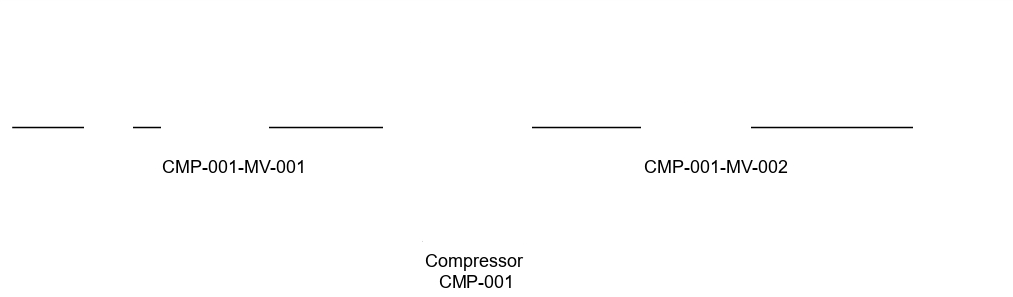
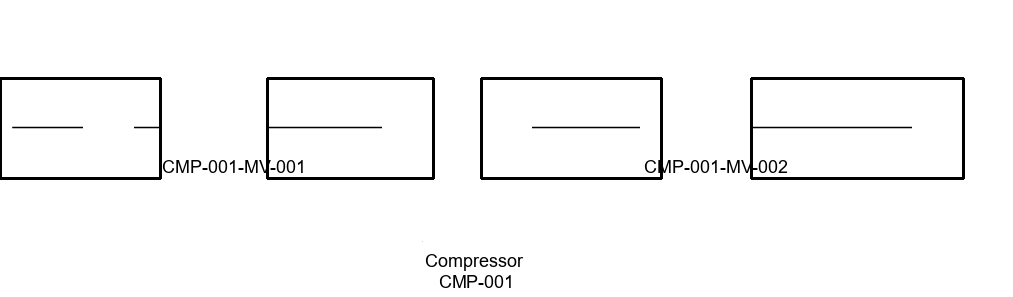
[+] merge Arrow Lignes

diff --git a/hackathon_conform_it/justinLib.py b/hackathon_conform_it/justinLib.py
@@ -92,10 +92,10 @@ def getArrows(image):
     coordonates = merge_intersection(list_coords)
 
     for x, y, w, h in coordonates:
-        # cv.rectangle(image, (x, y), (x + w, y + h), (0, 0, 255), 2)
         list_arrow.append(Model("arrow", ((x, y), w, h), (1, 3)))
 
         image = effacer(image, (x, y), w, h)
+        cv.rectangle(image, (x, y), (x + w, y + h), (255, 0, 0), 2)
     cv.imwrite("./tmp/res.png", image)
 
     return list_arrow
@@ -113,16 +113,13 @@ def getLines(image):
     list_coords = []
     for pt in zip(*loc[::-1]):
         list_coords.append((pt[0], pt[1], w, h))
-        #cv.rectangle(image, pt, (pt[0] + w, pt[1] + h), (0, 0, 255), 2)
-
-    cv.imwrite("./tmp/res_line.png", image)
 
     coordonates = merge_intersection(list_coords)
 
     for x, y, w, h in coordonates:
         cv.rectangle(image, (x, y), (x + w, y + h), (0, 0, 255), 2)
         list_lines.append(Model("ligne", ((x, y), w, h), (1, 3)))
-    cv.imwrite("./tmp/res.png", image)
+    cv.imwrite("./tmp/res_line.png", image)
 
     return list_lines
 
@@ -132,8 +129,8 @@ def is_intersection(box1, box2, strict=True):
     if not strict:
         EPS = 15
 
-    if ((box1[0] + box1[2] + 2 * EPS <= box2[0]) or (box2[0] + box2[2] + 2 * EPS <= box1[0])
-        or (box1[1] + box1[3] + 2 * EPS <= box2[1]) or (box2[1] + box2[3] + 2 * EPS <= box1[1])):
+    if (((box1[0] + box1[2] + 2 * EPS) <= box2[0]) or ((box2[0] + box2[2] + 2 * EPS) <= box1[0])
+        or ((box1[1] + box1[3] + 2 * EPS) <= box2[1]) or ((box2[1] + box2[3] + 2 * EPS) <= box1[1])):
         return False
 
     return True
@@ -174,7 +171,7 @@ def test_and_merge(list_box):
 def merge_arrow_ligne(list_arrow, list_ligne):
     changement = True
     while changement:
-        list_arrow, list_ligne = test_and_merge_arrow_ligne(list_arrow, list_ligne)
+        list_arrow, list_ligne, changement = test_and_merge_arrow_ligne(list_arrow, list_ligne)
 
     return list_arrow, list_ligne
 
@@ -183,23 +180,36 @@ def test_and_merge_arrow_ligne(list_arrow, list_ligne):
     for i in range(len(list_ligne)):
         box1 = list_ligne[i].bounding_box
 
-        del_list = []
+        changement = False
+        del_list_arrow = []
+        del_list_ligne = []
 
         for j in range(1, len(list_arrow)):
             box2 = list_arrow[j].bounding_box
-            if is_intersection(box1, box2):
-                del_list = []
+            if is_intersection((box1[0][0], box1[0][1], box1[1], box1[2]), (box2[0][0], box2[0][1], box2[1], box2[2]), strict=False):
+                if not changement:
+                    del_list_ligne.insert(0, i)
+                    changement = True
+                else:
+                    del_list_arrow.insert(0, j)
 
                 # Bord Haut Gauche
-                max_x = max(box1[0] + box1[2], box2[0] + box2[2])
-                max_y = max(box1[1] + box1[3], box2[1] + box2[3])
+                max_x = max(box1[0][0] + box1[1], box2[0][0] + box2[1])
+                max_y = max(box1[0][1] + box1[2], box2[0][1] + box2[2])
 
                 # Bord Bas Droit
-                min_x = min(box1[0], box2[0])
-                min_y = min(box1[1], box2[1])
+                min_x = min(box1[0][0], box2[0][0])
+                min_y = min(box1[0][1], box2[0][1])
 
-                list_box[i] = (min_x, min_y, max_x - min_x, max_y - min_y)
-                list_ligne.pop(i)
-                return list_box, True
+                list_arrow[j].bounding_box = ((min_x, min_y), max_x - min_x, max_y - min_y)
 
-    return list_box, False
+        if changement:
+            for index in del_list_arrow:
+                list_arrow.pop(index)
+
+            for index in del_list_ligne:
+                list_ligne.pop(index)
+
+            return list_arrow, list_ligne, changement
+
+    return list_arrow, list_ligne, changement
